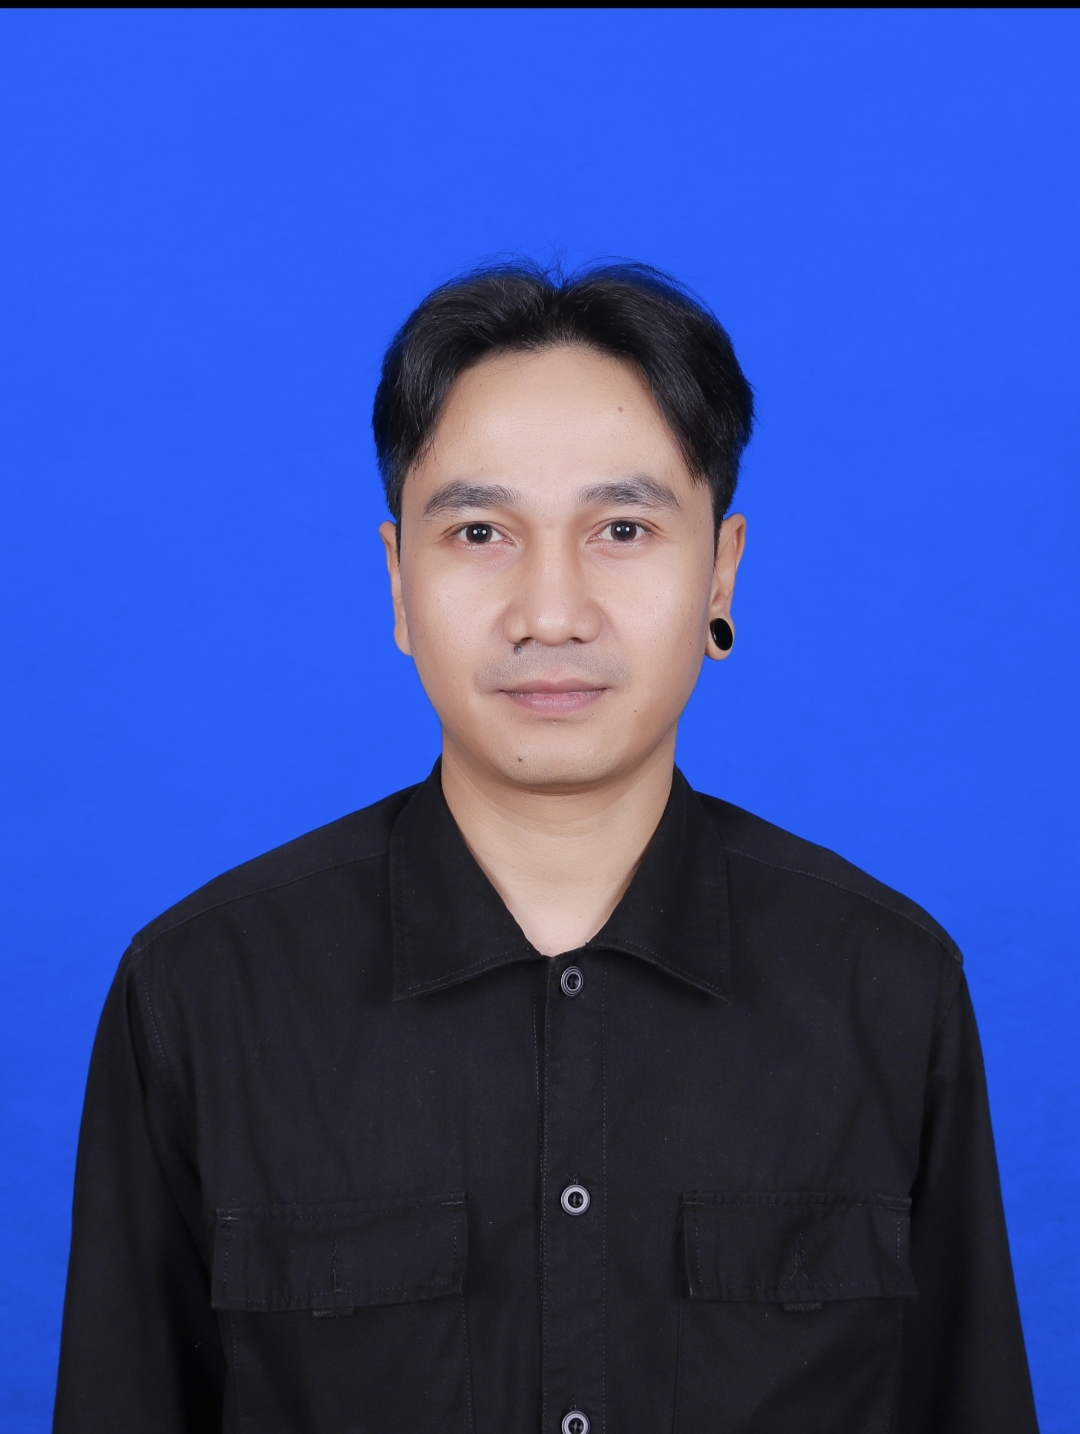
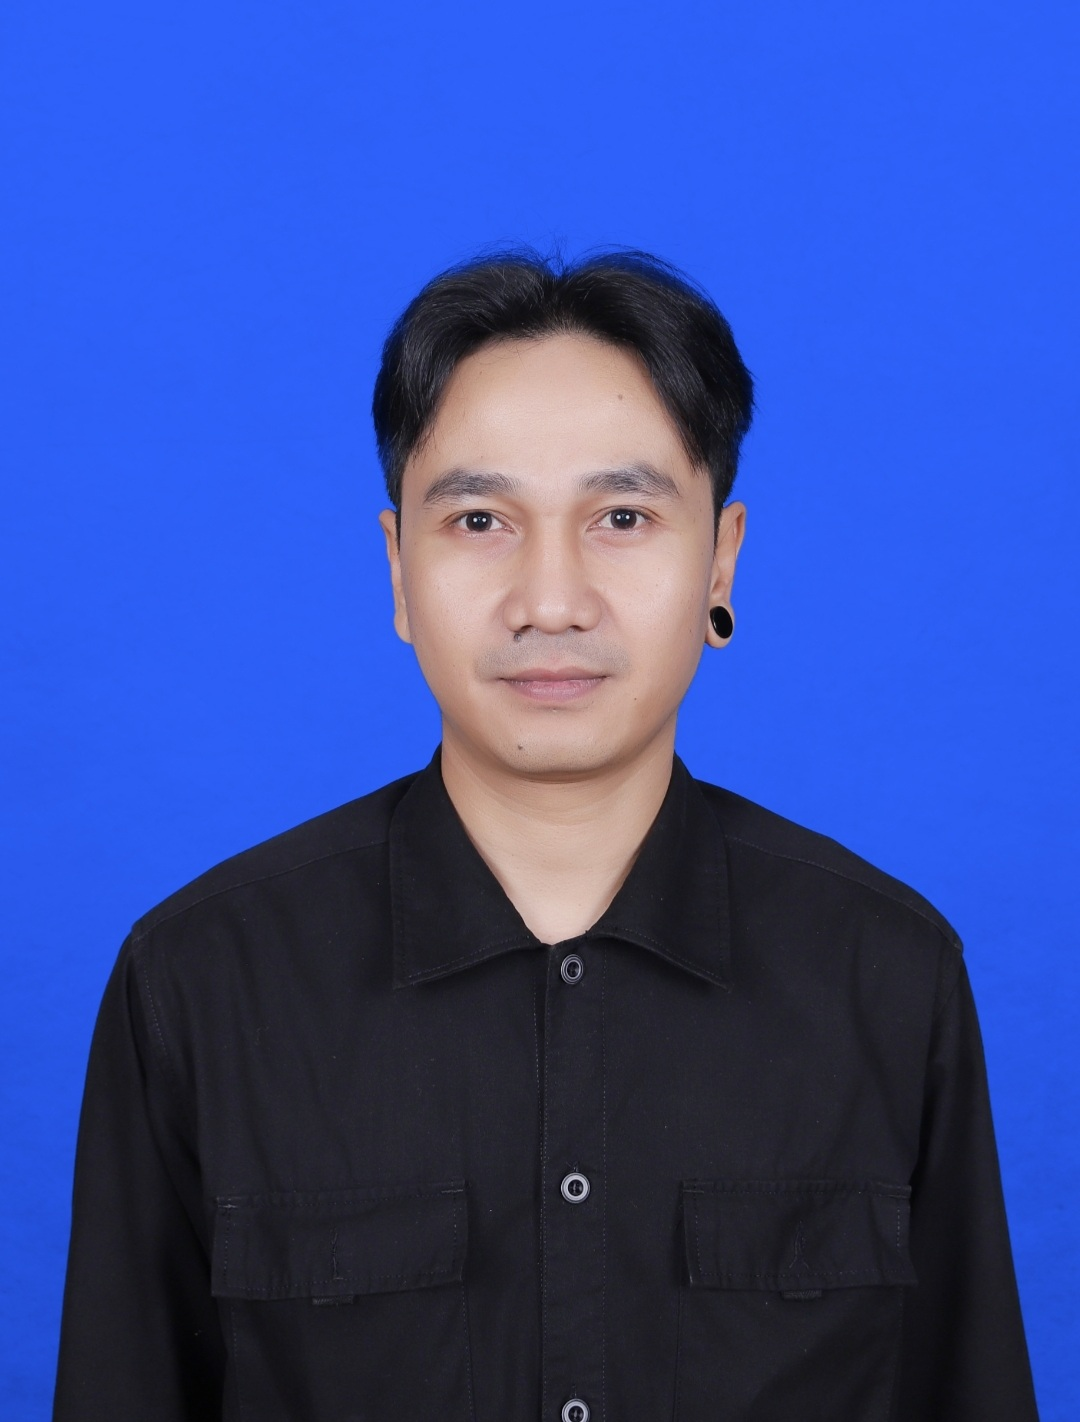
Fix photo cropping for bride and groom

diff --git a/index.html b/index.html
@@ -176,7 +176,7 @@
             <div class="satumomen_track">
                 <ul class="satumomen_list">
                     <li class="container-mobile satumomen_slide satumomen_cover"
-                        style="background-image: url(3.jpeg); background-size: cover; background-position: center center;">
+                        style="background-image: url(3.jpeg); background-size: cover; background-position: 25% center;">
                         <div class="workspace cover">
                             <div class="content h-100 w-100 mx-auto">
                                 <div class="h-100 d-flex justify-content-between align-items-center flex-column py-4">
@@ -208,7 +208,7 @@
                     </li>
                     <li class="blank-canvas" style="height: 100vh"></li>
                     <li class="container-mobile satumomen_slide"
-                        style="background-image: url(3.jpeg); background-size: cover; background-position: center center;">
+                        style="background-image: url(3.jpeg); background-size: cover; background-position: 25% center;">
                         <div class="workspace ">
                             <div class="content h-100 w-100 mx-auto">
                                 <div class="h-100 w-100 d-flex flex-column justify-content-end align-items-center">
@@ -267,7 +267,7 @@
                                                     <div
                                                         style="border-radius:10rem;overflow:hidden;position:absolute;top:0;right:0;bottom:0;left:0;margin:11%;">
                                                         <img src="1.jpeg"
-                                                            style="width: 100%; height: 100%; object-fit: cover;"
+                                                            style="width: 100%; height: 100%; object-fit: cover; object-position: center bottom;"
                                                             alt="no-image.jpg">
                                                     </div>
                                                 </div>
@@ -425,7 +425,7 @@
 
                         </div>
                     <li class="container-mobile satumomen_slide"
-                        style="background-image: url(3.jpeg); background-size: cover; background-position: center center;">
+                        style="background-image: url(3.jpeg); background-size: cover; background-position: 25% center;">
                         <div class="workspace ">
                             <div class="content h-100 w-100 mx-auto">
                                 <div class="py-4 h-100 d-flex flex-column align-items-center overflow-hidden">
@@ -545,7 +545,7 @@
                         </div>
                     </li>
                     <li class="container-mobile satumomen_slide"
-                        style="background-image: url(3.jpeg); background-size: cover; background-position: center center;">
+                        style="background-image: url(3.jpeg); background-size: cover; background-position: 25% center;">
                         <div class="workspace ">
                             <div class="content h-100 w-100 mx-auto">
                                 <div
